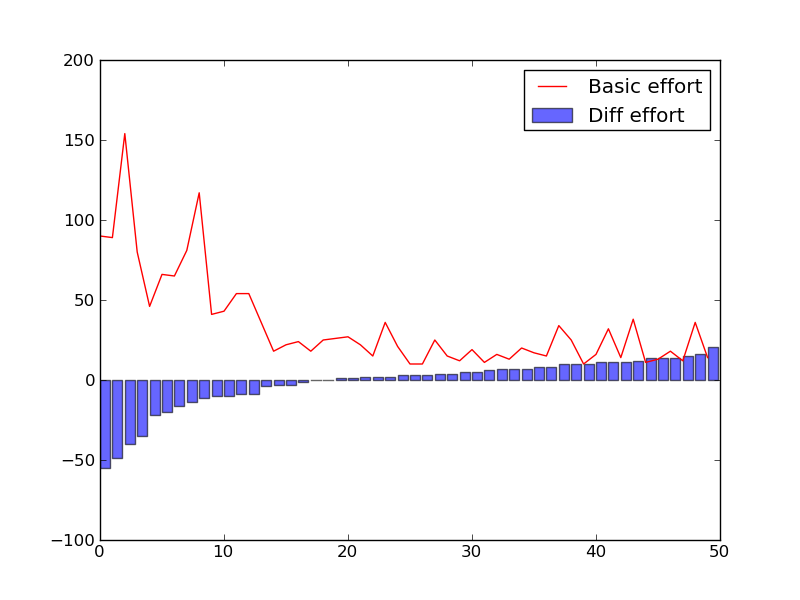
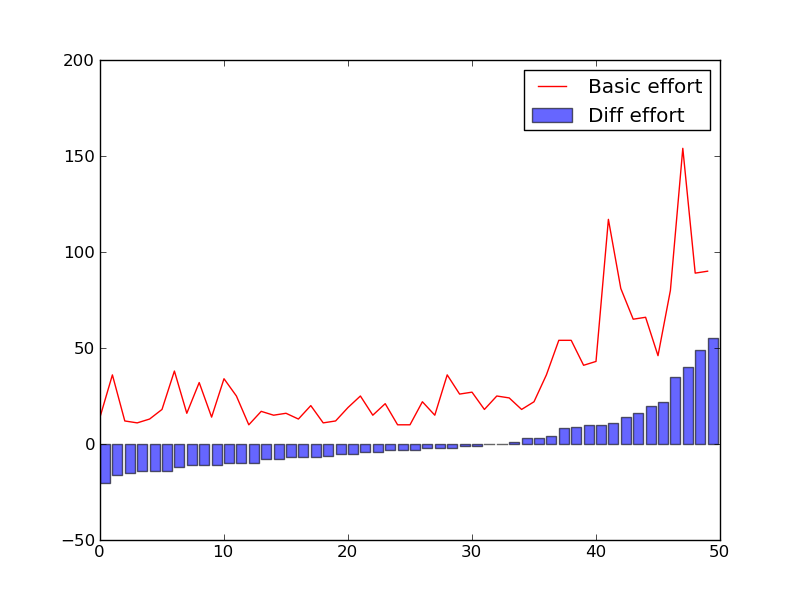
reverse basic-facet

diff --git a/scripts/analysis_0514/query_analysis.py b/scripts/analysis_0514/query_analysis.py
@@ -44,7 +44,7 @@ def perquery_compare(pa_facet, data_facet, pa_basic, data_basic, user_type):
         b_data = data_basic[basic_index] 
 
 	# Compute the difference between the median and the basic effort
-	diff_median = [(np.median(f_data[q])-b_data[q], q) for q in f_data]
+	diff_median = [(b_data[q]-np.median(f_data[q]), q) for q in f_data]
 	diff_median.sort(key=operator.itemgetter(0))
         Y1 = [y[0] for y in diff_median]
 	Y2 = [b_data[q[1]] for q in diff_median]	
